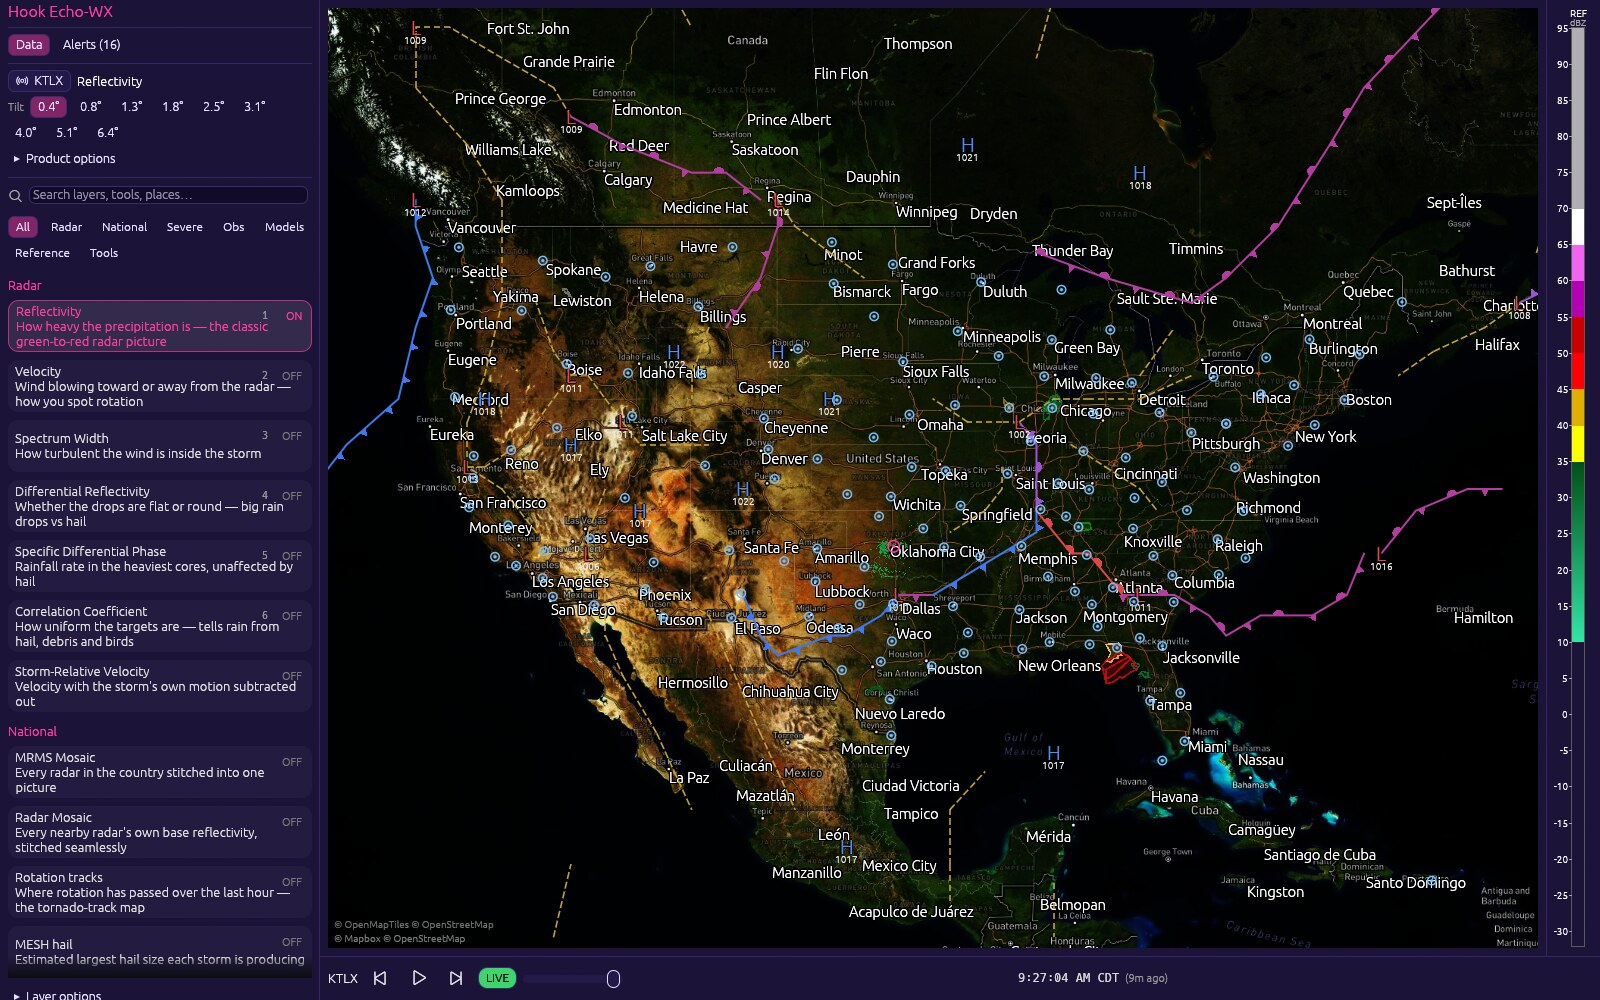
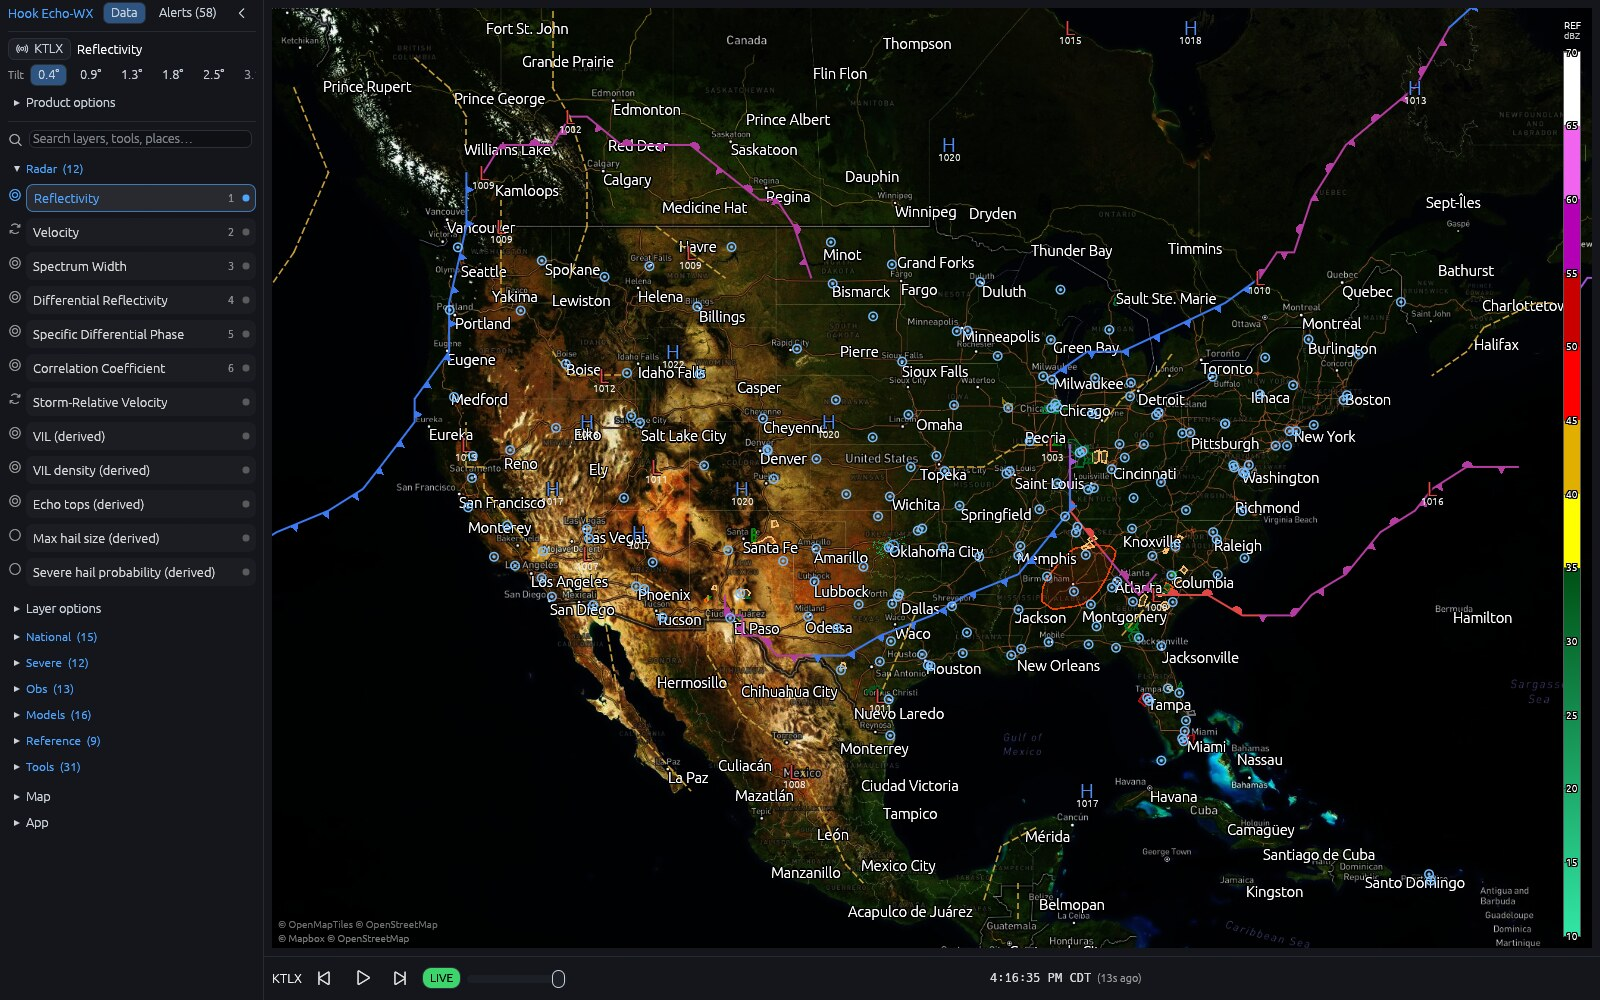
docs: reshoot the whole screenshot set on the Dark theme
The shoot inherited whatever theme the operator's own config was on, so the
committed set was Synthwave. It's pinned to Dark in settings.template.json now
and every frame was retaken: new sidebar, new floating colorbar, no docked
right panel.

Scene fixes the reshoot forced out:
- alltilts/xsection click coordinates were tuned for the old 320 px sidebar and
  landed on the wrong pane strip / a stratiform cut.
- the products scene clicked a bottom-left product pill that no longer exists;
  it now shows the sidebar search, which is what replaced it.
- stormtable moved to KTBW: KTLX had no tracked cells today.

Also: the colorbar labels whole numbers, which turned correlation coefficient's
0..1.05 scale into "1 1 1 … 0 0". Narrow scales get decimals.

README: sidebar/colorbar descriptions match the current UI, and the test count
is no longer four years stale.

diff --git a/crates/hookecho/src/ui/legend.rs b/crates/hookecho/src/ui/legend.rs
@@ -116,8 +116,11 @@ pub fn draw_vertical(
     let font = FontId::proportional(10.0);
     // On-bar text needs its own contrast: an 8-way black halo, the same trick the map's city
     // labels use over imagery.
+    // Correlation coefficient spans 0..1.05: rounded to whole numbers its whole scale reads
+    // "1 1 1 … 0 0". Anything that narrow gets decimals.
+    let decimals = if span * disp_factor >= 10.0 { 0 } else { 2 };
     let label = |v: f32, y: f32| {
-        let text = format!("{:.0}", v * disp_factor);
+        let text = format!("{:.*}", decimals, v * disp_factor);
         let at = egui::pos2(bar.center().x, y);
         for dx in [-1.0, 0.0, 1.0] {
             for dy in [-1.0, 0.0, 1.0] {

diff --git a/README.md b/README.md
@@ -54,23 +54,26 @@ floating cards over the weather:
 
 - **The left sidebar** holds everything: the site, the current product and its
   tilt, the expert knobs for that product, then every layer, window and tool —
-  searchable, scoped by category pills, and described in plain English, with the
-  layer options, map settings and app commands under it. `Ctrl+K` jumps to its
-  search, and Enter runs the top match.
+  one icon-led row each, described in plain English, filed under collapsible
+  categories that carry their own count, with the layer options, map settings and
+  app commands under them. Search it with `Ctrl+K`; Enter runs the top match.
+  Drag a row by its icon to pin it above the rest of its category, and collapse
+  the whole sidebar to a single button when you want the map and nothing else.
 - Its **Alerts tab** lists every alert covering your view, worst first, badged
   with the count. Click a row to fly there and read the bulletin.
 - **The bottom bar** is the timeline: site, clock, play, scrub, and a LIVE badge
   that snaps back to the newest scan. Right-click the badge for the archive day,
   loop and playback speed.
-- **The right edge** is the color scale for whatever product the active pane is
-  showing.
+- **The right edge** carries the color scale for the product each pane is
+  showing — a thin bar floating over the map, spanning only the values the color
+  table actually paints.
 
 That's the whole of it. Searching for a place is the same box — type a name and
 take the **Fly to** row at the bottom of the results.
 
-| Pick a product | One sidebar for everything |
+| Search everything | One sidebar for everything |
 |---|---|
-| ![The product list over the Joplin supercell](docs/shots/products.jpg) | ![The sidebar over the Mayfield supercell](docs/shots/layers.jpg) |
+| ![Searching the sidebar for "hail" over the Joplin supercell](docs/shots/products.jpg) | ![The sidebar over the Mayfield supercell](docs/shots/layers.jpg) |
 | <sub>Joplin, MO — 22 May 2011</sub> | <sub>Mayfield, KY — 11 Dec 2021</sub> |
 
 Radar times read in **the selected radar's local time**, not Zulu — a KEPZ pane
@@ -148,7 +151,7 @@ force at that moment.
 | Storm attributes | Active alerts |
 |---|---|
 | ![The storm attributes table listing tracked cells](docs/shots/stormtable.jpg) | ![The alerts panel listing tornado warnings](docs/shots/alerts.jpg) |
-| <sub>KBMX — live</sub> | <sub>KBMX — 27 Apr 2011 outbreak</sub> |
+| <sub>KTBW — live</sub> | <sub>KBMX — 27 Apr 2011 outbreak</sub> |
 
 ### Looking ahead
 
@@ -370,7 +373,8 @@ layer draws its own scale and units.
 On Android the same app wears a touch-first skin: a five-slot labeled dock
 (Play · Layers · Products · Site · More), slide-up sheets, and a navigation
 drawer holding the desktop sidebar's contents — same described action list,
-same category pills, same layer options, same app rows — plus native GPS for chase mode and opt-in background
+same collapsible
+categories, same layer options, same app rows — plus native GPS for chase mode and opt-in background
 alerting: a foreground service watches your saved locations and notifies you
 with the app closed, tiered by watch / warning / emergency, tapping through to
 the storm.
@@ -430,7 +434,7 @@ cargo run --release -- --headless-hrrr uh 3 uh.png          # refc|uh|smoke
 ```
 
 ```sh
-cargo test    # 184 offline unit tests
+cargo test    # 303 offline unit tests
 ```
 
 The screenshots in this README are regenerated by `scripts/shots/shoot.sh`,

diff --git a/scripts/shots/README.md b/scripts/shots/README.md
@@ -65,5 +65,6 @@ Look at every frame. The script cannot tell a good screenshot from a bad one.
 - The product and timestamp in the chrome match what the README caption claims.
 - It still reads at README thumbnail width (~420 px), not just at full size.
 
-Then `./shoot.sh check` for the mechanical part, and confirm the whole set shares one theme and
-one basemap.
+Then `./shoot.sh check` for the mechanical part, and confirm the whole set shares one basemap.
+The theme is pinned to Dark in `settings.template.json` — the shoot no longer inherits whatever
+theme your own config happens to be on, so the set can't drift a shot at a time.
